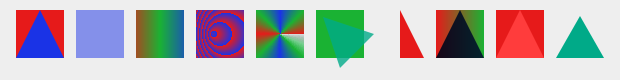
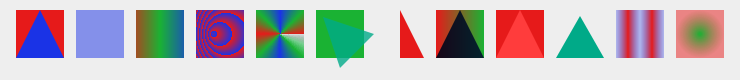
raster: interpolate colour lines unpremultiplied
A COLR gradient's colours are interpolated unpremultiplied and
premultiplied after, as HarfBuzz draws them through cairo: between a red
stop and a blue one at 30% alpha, the midpoint was too red. The fixture
had no translucent stop to show it; ColourTest.ttf has two now, U+1F52E
and U+1F4A7, and hb-view.png both.

diff --git a/internal/raster/colour.go b/internal/raster/colour.go
@@ -423,7 +423,8 @@ const (
 
 // colrGradient is a COLR gradient shader. Its colour line is normalised to
 // run from 0 to 1 and its geometry moved to match, as HarfBuzz does, so that
-// stops out of order or past either end are drawn as the font states them.
+// stops out of order or past either end are drawn as the font states them,
+// and its colours interpolated unpremultiplied, as HarfBuzz's are.
 type colrGradient struct {
 	kind   colrKind
 	inv    matrix // device to font units
@@ -460,9 +461,10 @@ func (g *colrGradient) stops(line shape.ColorLine) (lo, hi float64, ok bool) {
 		}
 		hi = lo + 1e-9
 	}
-	premul := func(c shape.Color) [4]float64 {
-		a := float64(c.A) / 255
-		return [4]float64{float64(c.R) * a, float64(c.G) * a, float64(c.B) * a, a * 255}
+	// Colours are interpolated unpremultiplied, as HarfBuzz (through cairo)
+	// and PDF's shadings do, and premultiplied after.
+	unpremul := func(c shape.Color) [4]float64 {
+		return [4]float64{float64(c.R), float64(c.G), float64(c.B), float64(c.A)}
 	}
 	j := 0
 	for i := range lutSize {
@@ -473,12 +475,12 @@ func (g *colrGradient) stops(line shape.ColorLine) (lo, hi float64, ok bool) {
 		var c [4]float64
 		switch {
 		case t <= st[0].Offset:
-			c = premul(st[0].Color)
+			c = unpremul(st[0].Color)
 		case j >= len(st)-1:
-			c = premul(st[len(st)-1].Color)
+			c = unpremul(st[len(st)-1].Color)
 		default:
 			a, b := st[j], st[j+1]
-			ca, cb := premul(a.Color), premul(b.Color)
+			ca, cb := unpremul(a.Color), unpremul(b.Color)
 			f := 0.0
 			if b.Offset > a.Offset {
 				f = (t - a.Offset) / (b.Offset - a.Offset)
@@ -487,7 +489,8 @@ func (g *colrGradient) stops(line shape.ColorLine) (lo, hi float64, ok bool) {
 				c[k] = ca[k] + (cb[k]-ca[k])*f
 			}
 		}
-		g.lut[i] = uint32(clampByte(c[0])) | uint32(clampByte(c[1]))<<8 | uint32(clampByte(c[2]))<<16 | uint32(clampByte(c[3]))<<24
+		al := c[3] / 255
+		g.lut[i] = uint32(clampByte(c[0]*al)) | uint32(clampByte(c[1]*al))<<8 | uint32(clampByte(c[2]*al))<<16 | uint32(clampByte(c[3]))<<24
 	}
 	return lo, hi, true
 }

diff --git a/internal/raster/colour_test.go b/internal/raster/colour_test.go
@@ -41,7 +41,7 @@ func renderColour(t *testing.T, svg string) *image.NRGBA {
 // cairo):
 //
 //	hb-view --font-size=60 --margin=10 --foreground=00AA88 --background=EEEEEE \
-//	  -O png -o hb-view.png ColourTest.ttf -u 1F534,1F7E2,1F308,1F31E,1F300,1F600,1F3A8,1F4A0,1F4A1,41
+//	  -O png -o hb-view.png ColourTest.ttf -u 1F534,1F7E2,1F308,1F31E,1F300,1F600,1F3A8,1F4A0,1F4A1,41,1F52E,1F4A7
 //
 // The sweep gradient is left out: cairo draws the wedge of a reflected sweep
 // below its start angle wrongly. TestSweepGradient checks it instead.
@@ -55,12 +55,13 @@ func TestColourGlyphsMatchHarfBuzz(t *testing.T) {
 	if err != nil {
 		t.Fatal(err)
 	}
-	got := renderColour(t, `<svg xmlns="http://www.w3.org/2000/svg" width="620" height="80"><rect width="620" height="80" fill="#eee"/>
-<text x="10" y="58" font-family="ColourTest" font-size="60" fill="#0a8">&#x1F534;&#x1F7E2;&#x1F308;&#x1F31E;&#x1F300;&#x1F600;&#x1F3A8;&#x1F4A0;&#x1F4A1;A</text></svg>`)
+	got := renderColour(t, `<svg xmlns="http://www.w3.org/2000/svg" width="740" height="80"><rect width="740" height="80" fill="#eee"/>
+<text x="10" y="58" font-family="ColourTest" font-size="60" fill="#0a8">&#x1F534;&#x1F7E2;&#x1F308;&#x1F31E;&#x1F300;&#x1F600;&#x1F3A8;&#x1F4A0;&#x1F4A1;A&#x1F52E;&#x1F4A7;</text></svg>`)
 	if got.Bounds() != ref.Bounds() {
 		t.Fatalf("size %v, HarfBuzz's %v", got.Bounds(), ref.Bounds())
 	}
-	names := []string{"COLRv0 layers", "solid", "linear", "radial", "sweep", "foreground, rotated", "SrcIn", "Multiply", "HSL luminosity", "outline"}
+	names := []string{"COLRv0 layers", "solid", "linear", "radial", "sweep", "foreground, rotated", "SrcIn", "Multiply", "HSL luminosity", "outline",
+		"translucent stop, reflected", "translucent stop, radial"}
 	for i, name := range names {
 		if name == "sweep" {
 			continue

diff --git a/testdata/colourfonts/build.py b/testdata/colourfonts/build.py
@@ -17,6 +17,8 @@
 #   U+1F3A8  composite SRC_IN: a solid triangle kept only inside a square
 #   U+1F4A0  composite MULTIPLY: a solid triangle multiplied onto a gradient
 #   U+1F4A1  composite HSL_LUMINOSITY
+#   U+1F52E  linear gradient, reflect, a stop at 30% alpha
+#   U+1F4A7  radial gradient, pad, a stop at 50% alpha
 #   U+0041   'A', an outline with no colour
 #
 # SbixTest.ttf, sbix: U+1F600 as a PNG in two strikes, 20 and 100 pixels per
@@ -109,6 +111,14 @@ COLOR = {
                    "Format": F.PaintLinearGradient,
                    "ColorLine": line("pad", stop(0.0, 0), stop(1.0, 2)),
                    "x0": 100, "y0": 0, "x1": 900, "y1": 0, "x2": 100, "y2": 800})},
+    "u1F52E": fill(SQ, {
+        "Format": F.PaintLinearGradient,
+        "ColorLine": line("reflect", stop(0.0, 0), stop(1.0, 1, 0.3)),
+        "x0": 300, "y0": 0, "x1": 500, "y1": 0, "x2": 300, "y2": 800}),
+    "u1F4A7": fill(SQ, {
+        "Format": F.PaintRadialGradient,
+        "ColorLine": line("pad", stop(0.0, 2), stop(1.0, 0, 0.5)),
+        "x0": 500, "y0": 400, "r0": 0, "x1": 500, "y1": 400, "r1": 400}),
     "u1F4A1": {"Format": F.PaintComposite, "CompositeMode": "HSL_LUMINOSITY",
                "SourcePaint": fill(TRI, solid(2)),
                "BackdropPaint": fill(SQ, solid(0))},
